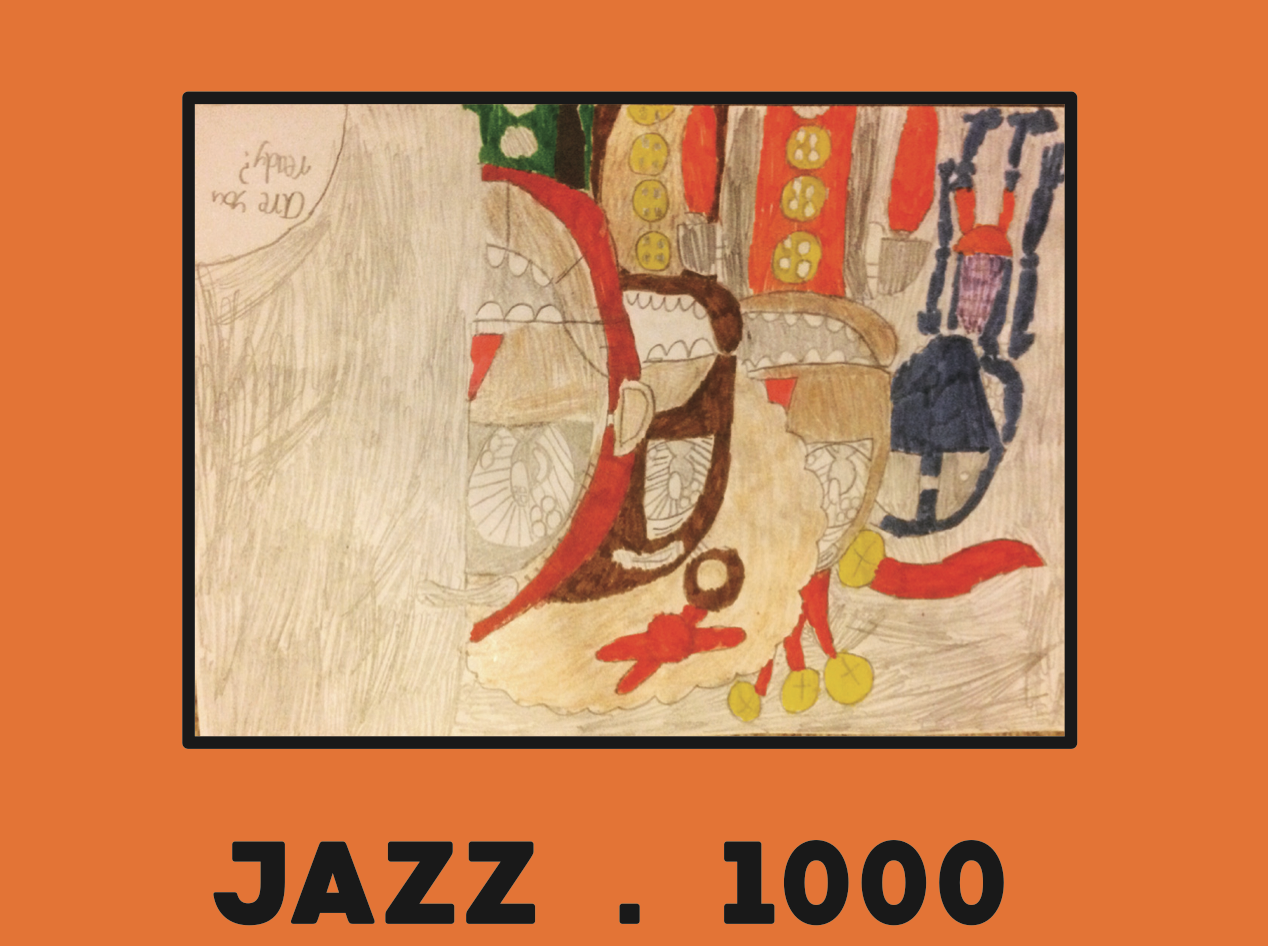
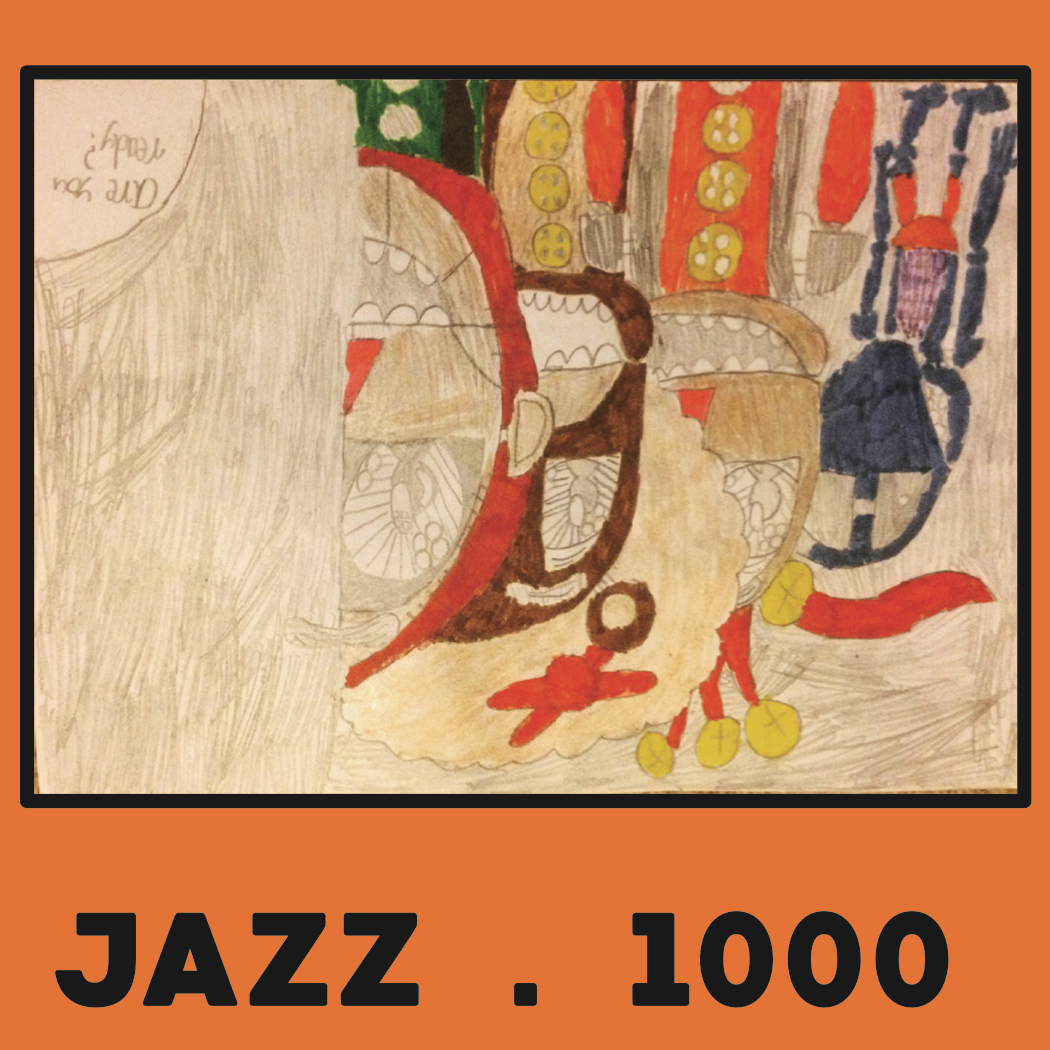
fixed jazz image

diff --git a/releases/index.html b/releases/index.html
@@ -45,7 +45,7 @@
 		<a href="https://bankrecords.bandcamp.com/track/hearing-two-girls" target="_blank" style="font-size:xx-large">Hearing - Two Girls"</a>
 	</div>
 	<div class="four columns" style="margin-top:80px; text-align: center;">
-		<a href="https://www.youtube.com/watch?v=rplRlFHLAok" target="_blank"><img src="./img/jazz.png.jpg" style="width:100%; max-width:100%;"></a><br/>
+		<a href="https://www.youtube.com/watch?v=rplRlFHLAok" target="_blank"><img src="./img/jazz.png" style="width:100%; max-width:100%;"></a><br/>
 		<a href="https://www.youtube.com/watch?v=rplRlFHLAok" target="_blank" style="font-size:xx-large">Jazz - 1000</a>
 	</div>
   </div>
